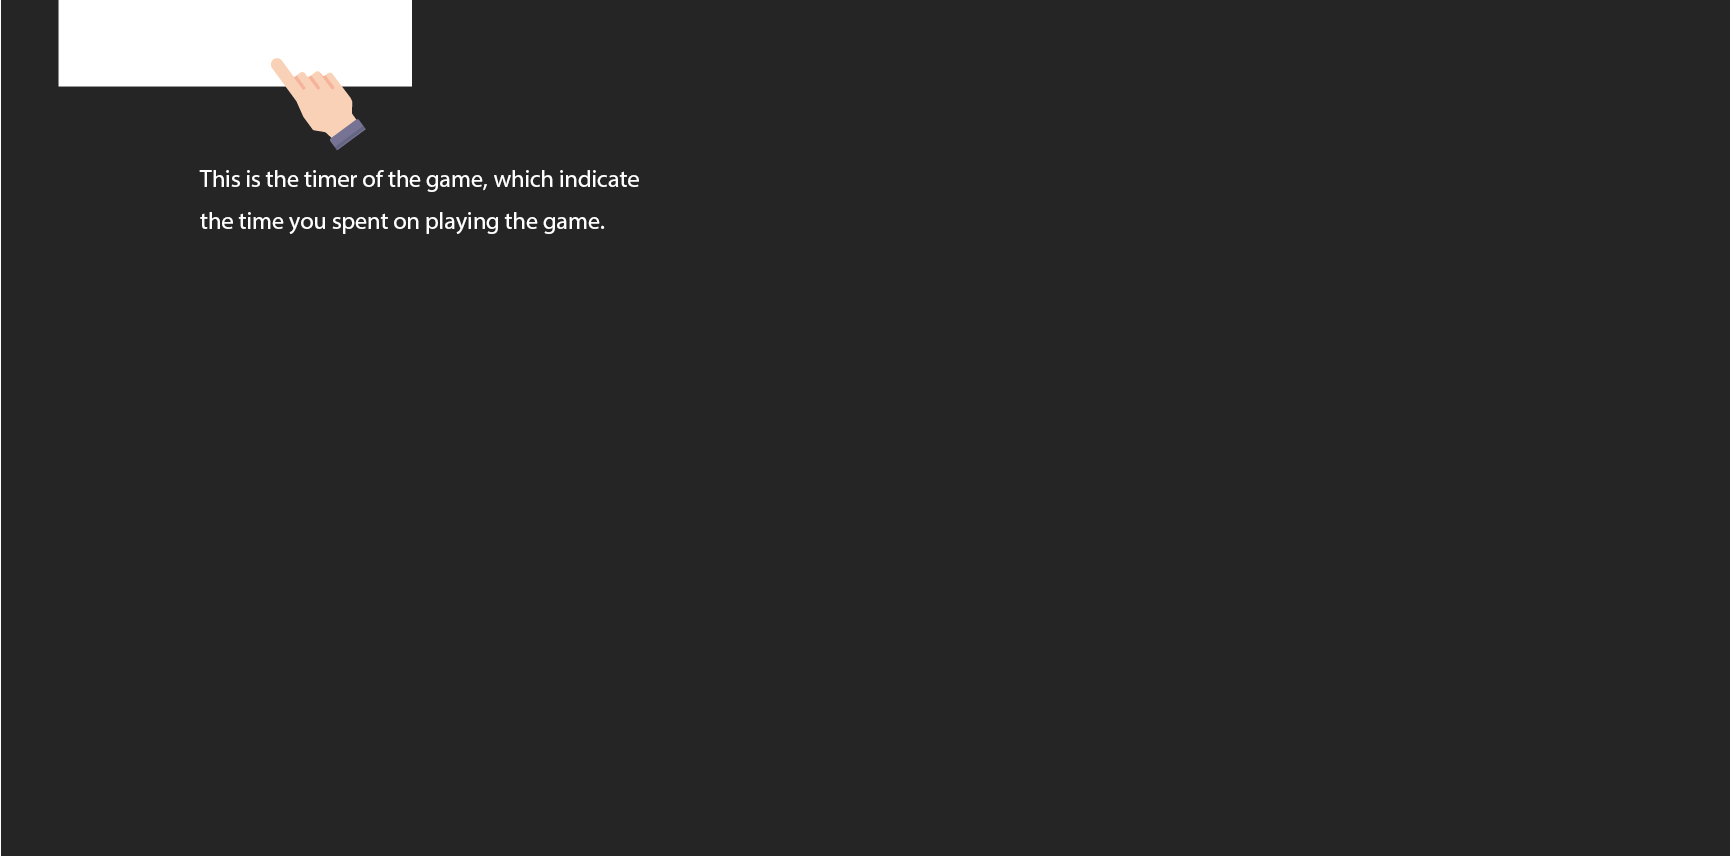
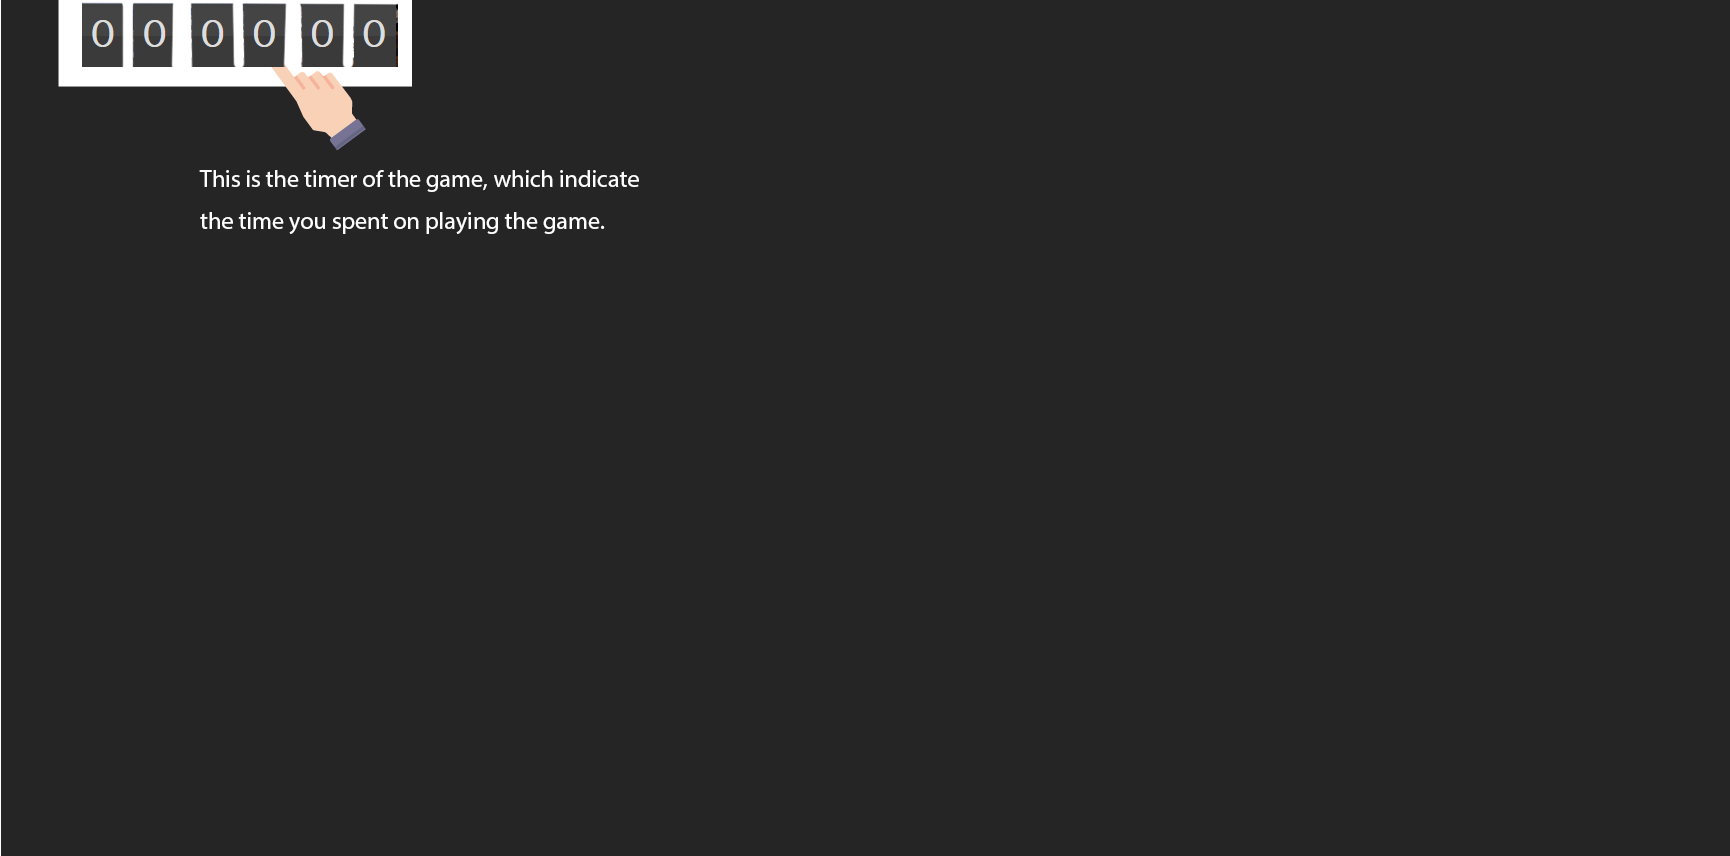
Added images to tutorial

Changed region(s): [[0.0312, 0.0, 0.2497, 0.0911]]

diff --git a/app/js/gameTutorial.js b/app/js/gameTutorial.js
@@ -3,7 +3,7 @@
  */
 
 $(function() {
-    var images = ["img/char/chapterTutorial/2.png", "img/char/chapterTutorial/3.png", "img/char/chapterTutorial/4.png", "img/char/chapterTutorial/5.png", "img/char/chapterTutorial/tutorial_tips_5.png", "img/char/chapterTutorial/6.png", "img/char/chapterTutorial/7.png", "img/char/chapterTutorial/8.png", "img/char/chapterTutorial/9.png", "img/char/chapterTutorial/10.png" , "img/char/chapterTutorial/tutorial_tips_1.png","img/char/chapterTutorial/tutorial_tips_2.png", "img/char/chapterTutorial/tutorial_tips_3.png", "img/char/chapterTutorial/tutorial_tips_4.png","img/char/chapterTutorial/11.png"];
+    var images = ["img/char/beforeT/2.png","img/char/beforeT/3.png", "img/char/beforeT/4.png", "img/char/beforeT/time.png","img/char/chapterTutorial/1.png","img/char/chapterTutorial/2.png", "img/char/chapterTutorial/3.png", "img/char/chapterTutorial/4.png", "img/char/chapterTutorial/5.png", "img/char/chapterTutorial/tutorial_tips_5.png", "img/char/chapterTutorial/6.png", "img/char/chapterTutorial/7.png", "img/char/chapterTutorial/8.png", "img/char/chapterTutorial/9.png", "img/char/chapterTutorial/10.png" , "img/char/chapterTutorial/tutorial_tips_1.png","img/char/chapterTutorial/tutorial_tips_2.png", "img/char/chapterTutorial/tutorial_tips_3.png", "img/char/chapterTutorial/tutorial_tips_4.png","img/char/chapterTutorial/11.png"];
     var max = images.length;
     var num = 0;
 
@@ -17,10 +17,11 @@ $(function() {
             $("#backButton, #nextButton, #skipButton").fadeOut(function (){
                 $(this).fadeIn(600)
             });
-            if (num == 10){
+            if (num == 15){
                 $(".question").slideDown("slow");
                 $("#checkinput").show();
-            }else if (num == 14){
+            }
+            if (num == max){
                 $(".question").slideUp("slow");
                 $("#checkinput").hide();
             }

diff --git a/app/tutorial.html b/app/tutorial.html
@@ -81,7 +81,7 @@
                 <div id="canvas" class="tutorial" ng-controller="imageController">
                     <div id="dialog_box">
                         <div id="imagebox">
-                            <img class="imageswap" src="img/char/chapterTutorial/1.png">
+                            <img class="imageswap" src="img/char/beforeT/1.png">
                         </div>
                         <div id="operationButtonBox">
                             <img id="skipButton" class="operationButton" src="img/tools/skip_button.png" alt="skipButton" />

diff --git a/app/css/game.css b/app/css/game.css
@@ -105,6 +105,7 @@
 
 /*All the clues*/
 
+/*-----Chapter Tutorial------*/
 .letterT {
     position: absolute;
     top: 48%;
@@ -135,6 +136,7 @@
     z-index: 2;
 }
 
+/*-----Chapter 1------*/
 
 .Louis_14 {
     position: absolute;
@@ -197,6 +199,8 @@
     z-index: 2;
 }
 
+/*-----Chapter 2------*/
+
 .coinsGeorge {
     position: absolute;
     top:48%;
@@ -246,6 +250,8 @@
     background-color: rgba(255, 255, 255, 0);
     z-index: 2;
 }
+
+/*-----Chapter 3------*/
 
 .Great_Exhibition {
     position: absolute;
